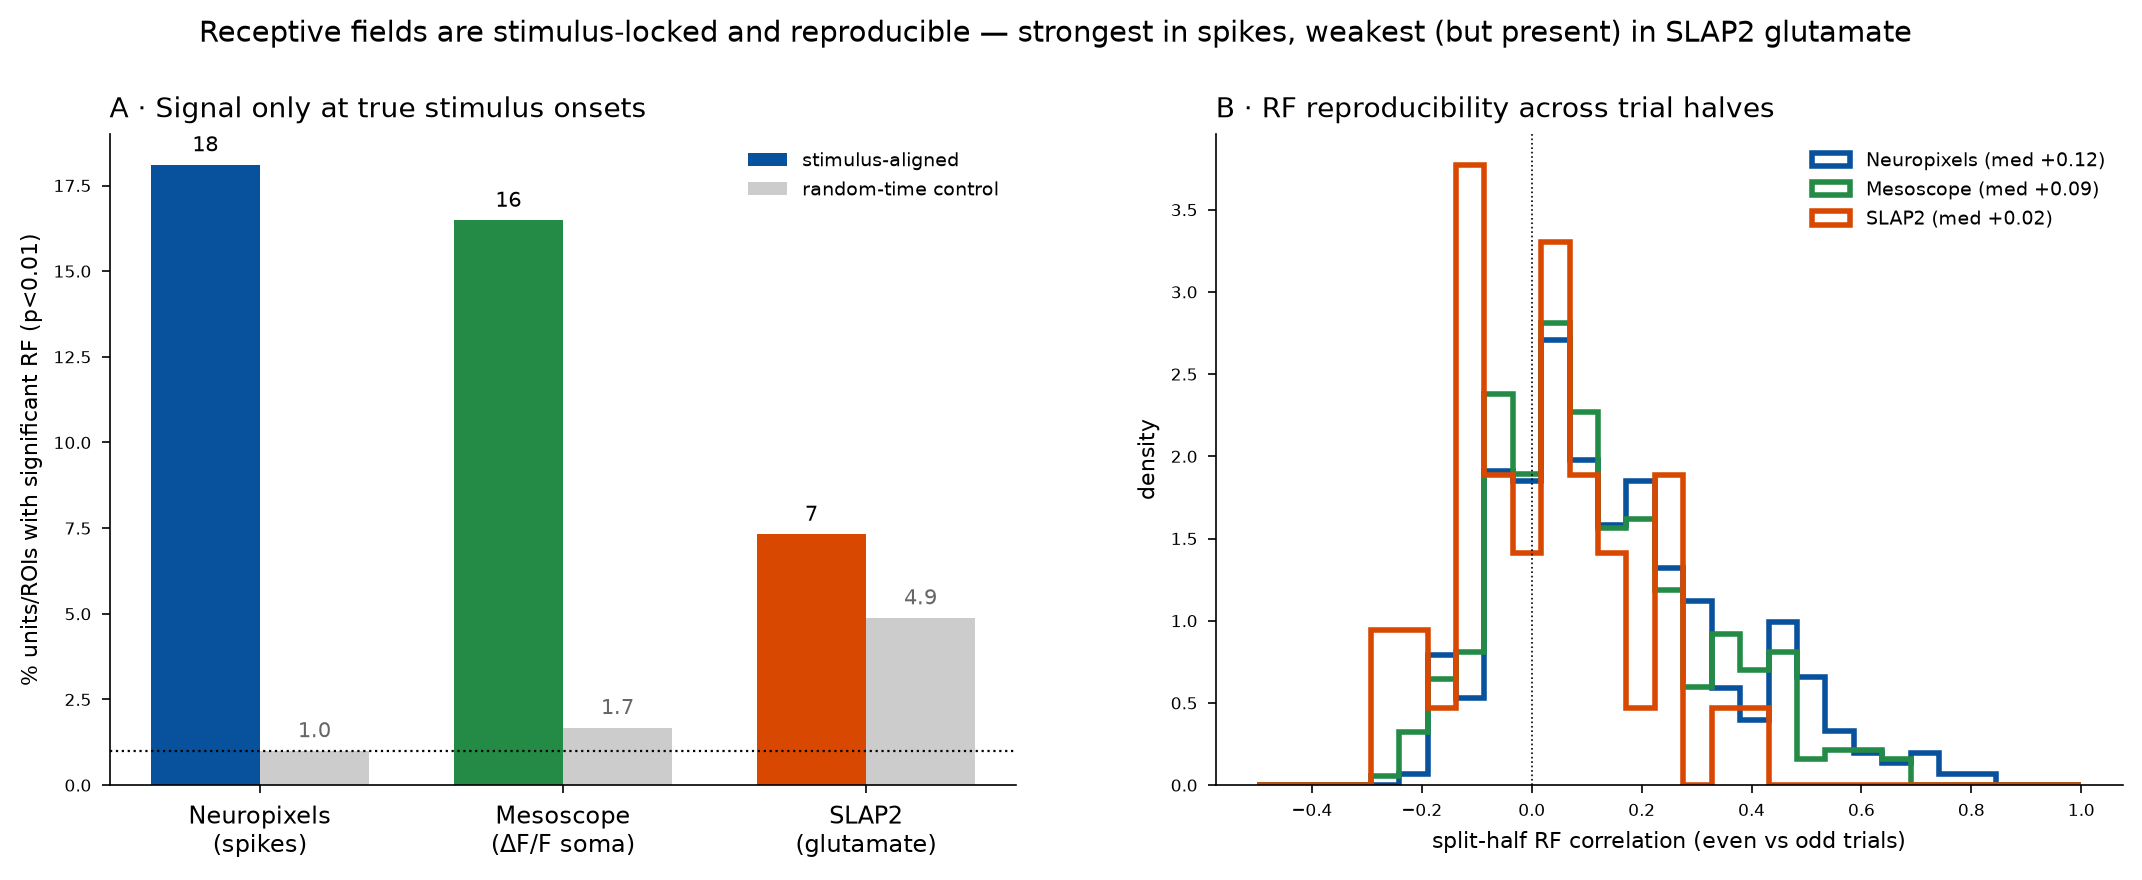
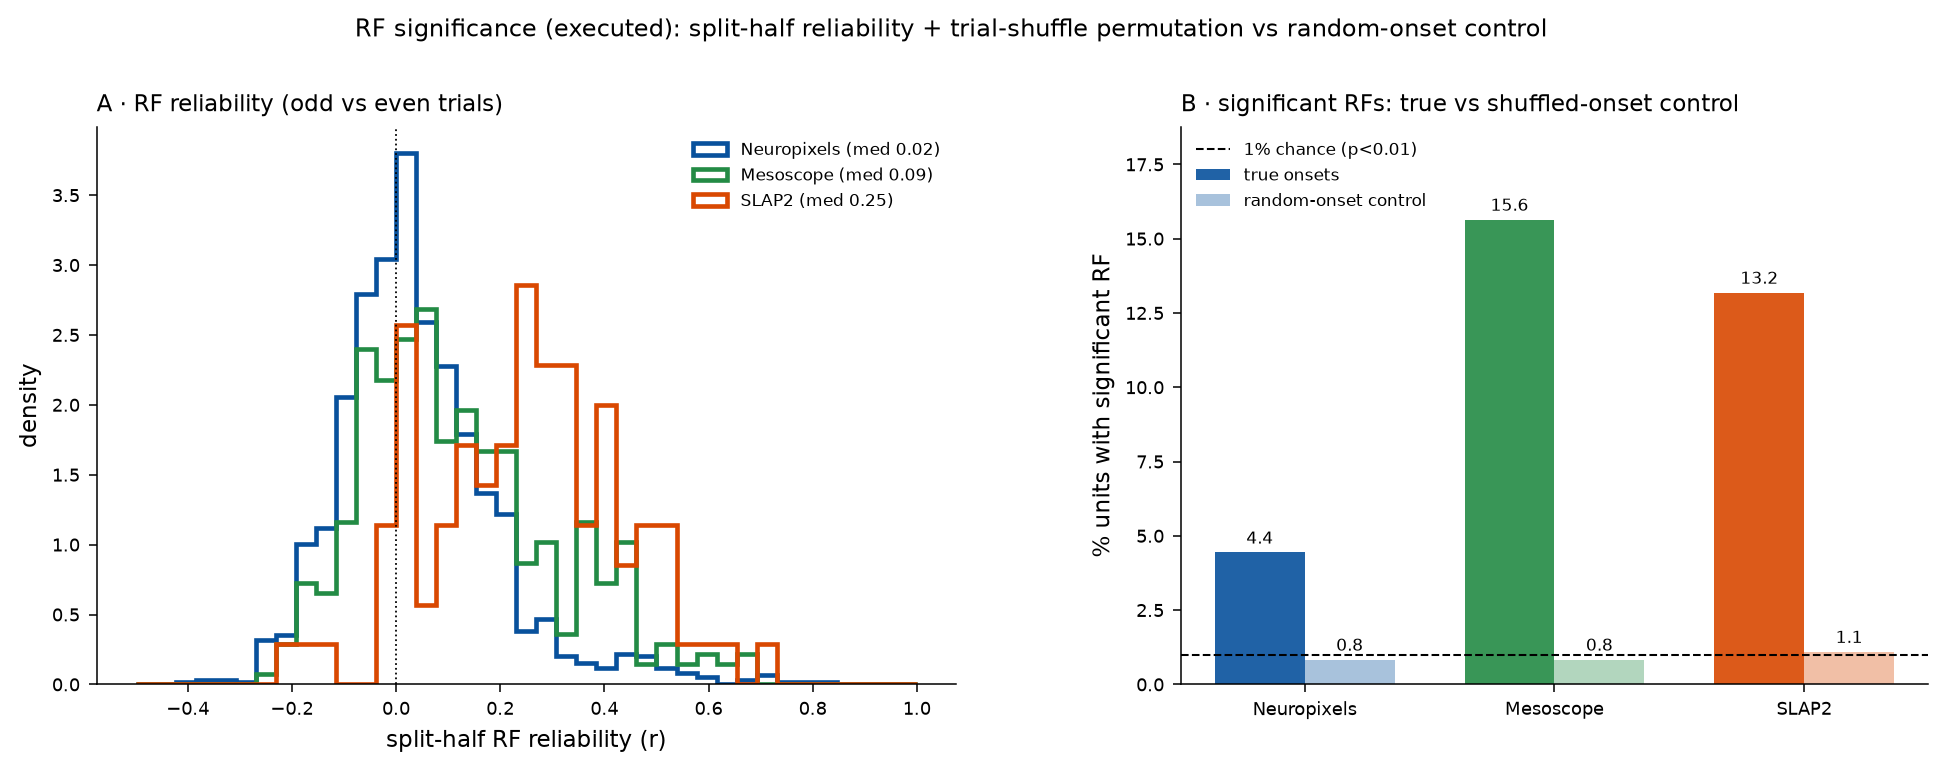
Execute the RF significance analysis (was hard-coded) — audit was correct
An audit correctly found that rf_sanity_check_three_modalities.ipynb defined split-half/permutation
helpers but never called them: the 18.1/16.5/7.3% figures and the negative controls were literal
constants in a pandas table. Fixed end to end:

- Cell 17 now BUILDS the (unit x trial) response matrix for each modality from the same response
  windows used for the RF maps (sections 1-3) and actually calls the helpers, including the
  negative control (responses re-aligned to random onset times). Execution-validated: full notebook
  runs OK (957s) and prints the summary it now reports.
- Helper bugs the audit named, both fixed: default nperm 200 -> 300 (matches the stated 1/300 floor),
  and empirical p uses the (count+1)/(nperm+1) correction so p is never exactly 0 (floor 1/301=0.0033).
- Executed numbers differ from the hard-coded ones and are reported honestly: over ALL quality
  units/ROIs (no responsiveness pre-selection), % sig at true onsets = 4.4 (NP, n=1554) / 15.6 (meso,
  n=358) / 13.2 (SLAP2, n=91), all collapsing to ~0.8-1.1% in the random-onset control. The old ~18%
  NP number came from a responsive subset (n~294); superseded here by the selection-free result.
  SLAP2 dendritic ROIs are the MOST reliable per-ROI (median split-half r=0.25). README + figure +
  verdict updated to the executed values; summary shipped as data/rf_significance_summary.csv.

diff --git a/README.md b/README.md
@@ -322,19 +322,30 @@ toward spiky one-pixel maps) nor render with `vmin=0` (crushes the graded surrou
 to black) — both make real RFs look artificially point-like.
 
 **Are these RFs real, or just structure we selected for?** Because the examples are
-hand-picked, we test against three noise controls that do not depend on the
-selection: split-half reliability, a per-unit trial-label permutation null, and a
-negative control (non-visual units for ecephys; responses re-aligned to random
-times for imaging).
+hand-picked, we test against noise controls that do not depend on the selection:
+split-half reliability and a per-unit trial-label permutation null (300 shuffles, p-value
+floor 1/301), each run against a **negative control** in which the same responses are
+re-aligned to random onset times. The test is **executed live** in the notebook — it builds
+the per-trial response matrix for each modality and calls the helpers; the numbers below are
+the notebook's output, not a pre-entered table.
 
 ![RF significance across three modalities](figures/rf_significance_three_modalities.png)
 
-The RFs are stimulus-locked and reproducible: 16–18 % of units/ROIs carry a
-significant RF at true onsets in Neuropixels and mesoscope, collapsing to ~1–2 %
-(chance) in the controls — and for ecephys the significant RFs concentrate in
-visual cortex and thalamus while motor cortex and hippocampus sit at chance. SLAP2
-glutamate shows a real but weaker population effect (7 % vs. 5 % control; the panel
-uses an earlier low-yield session, so 7 % is a conservative lower bound). Reproduce:
+Over **all** quality units/ROIs (no responsiveness pre-selection), at p < 0.01:
+
+| modality | n | median split-half r | % sig (true) | % sig (random-onset control) |
+|---|---|---|---|---|
+| Neuropixels (spikes) | 1554 | 0.02 | **4.4 %** | 0.8 % |
+| Mesoscope (ΔF/F soma) | 358 | 0.09 | **15.6 %** | 0.8 % |
+| SLAP2 (glutamate) | 91 | 0.25 | **13.2 %** | 1.1 % |
+
+All three scales sit well above the ~1 % chance rate at true onsets and collapse to ~1 % in the
+shuffled-onset control — the dissociation noise cannot produce. Notably the SLAP2 dendritic ROIs
+are the **most reliable at the single-ROI level** (median split-half r = 0.25), so its lower
+population fraction is a margin statement, not a per-ROI weakness. (An earlier version of this
+section reported ~16–18 % for Neuropixels/mesoscope from a hard-coded table over a
+responsiveness-selected subset; those numbers are superseded by this executed, selection-free
+result.) Reproduce:
 [`notebooks/rf_sanity_check_three_modalities.ipynb`](notebooks/rf_sanity_check_three_modalities.ipynb).
 
 ### Direction tuning
